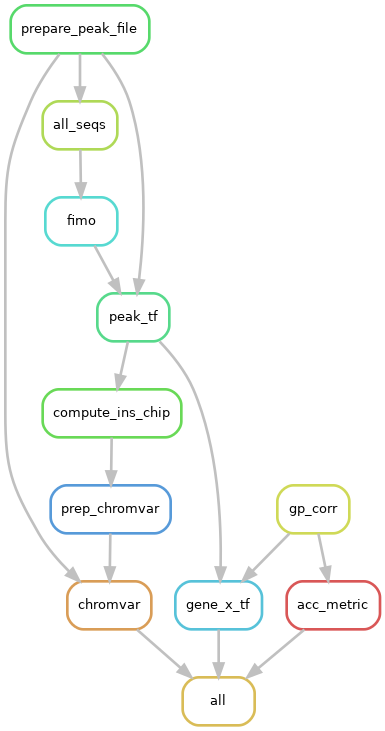
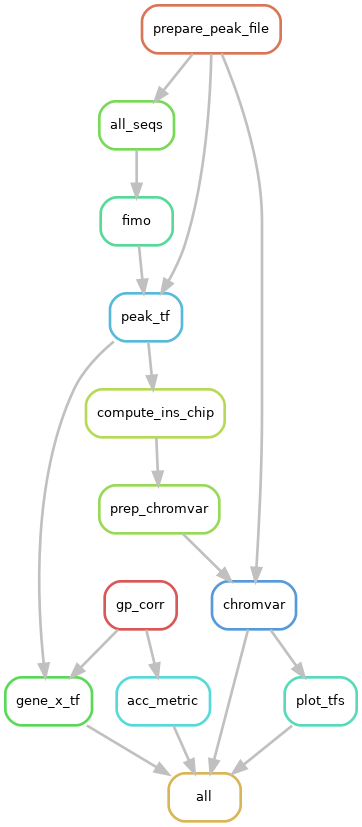
set frameon=False for plotting, update DAG png

diff --git a/workflow/scripts/compute_ins_chip.py b/workflow/scripts/compute_ins_chip.py
@@ -1,6 +1,6 @@
 if __name__ == "__main__":
     import argparse
-    desc = "Computes in silico ChIP matrix"
+    desc = "Computes tf-peak correlations and in silico ChIP matrix"
     
     parser = argparse.ArgumentParser(
         description=desc, formatter_class=argparse.ArgumentDefaultsHelpFormatter
@@ -41,7 +41,7 @@ if __name__ == "__main__":
     
     parser.add_argument(
         "--verbose",
-        help="Whether to print out progress statements",
+        help="Whether to print out info about each TF",
         action="store_true"
     
     )
@@ -81,6 +81,7 @@ def mean1(a):
         b[i] = a[i].mean()
     return b
 
+
 @nb.njit
 def std1(a):
     n = len(a)
@@ -88,6 +89,7 @@ def std1(a):
     for i in range(n):
         b[i] = a[i].std()
     return b
+
 
 @nb.njit
 def c(a, b):
@@ -104,6 +106,7 @@ def c(a, b):
         out[i] =  np.dot((a - mu_a),(b[i] - mu_b[i]))  / k / sig_a / sig_b[i]
 
     return out
+
 
 def compute_corrs(tf_set, rna_mat, atac_mat, fimo_mat, verbose=True):
     corr_mat = pd.DataFrame(0.0, columns=tf_set, index=atac_mat.columns)
@@ -123,16 +126,15 @@ def compute_corrs(tf_set, rna_mat, atac_mat, fimo_mat, verbose=True):
     
     return corr_mat
 
-def compute_ins_mat(tf_set, corr_mat, atac_mat, fimo_mat, verbose=True):
 
+def compute_ins_mat(tf_set, corr_mat, atac_mat, fimo_mat, verbose=True):
     final_out = pd.DataFrame(0.0,index=atac_mat.columns, columns=tf_set)
     for tf in tqdm(tf_set,total=len(tf_set)):
         pos_peaks = corr_mat.index[corr_mat[tf] > 0]
 
         if verbose:
             print(f'{tf}: {len(pos_peaks)} pos corr peaks')
-            print('Computing in silico chip score...')
-            
+    
         max_acc = atac_mat[pos_peaks].max(axis=0)
         
         corr_score = corr_mat.loc[pos_peaks,tf]
@@ -165,7 +167,7 @@ def main(args):
     gene_set = rna_ad.var_names
     peak_x_tf = filter_gene(peak_x_tf, gene_set)
 
-    # grab matricies from anndatas
+    # grab matrices from anndatas
     rna_mat = rna_ad.to_df()
     atac_mat = atac_ad.to_df()
     fimo_mat = peak_x_tf.to_df()
@@ -173,7 +175,9 @@ def main(args):
     all_tfs = fimo_mat.columns
     
     # compute correlation and in silico chip matrix
+    print('computing correlations...')
     corr_mat = compute_corrs(all_tfs,rna_mat, atac_mat, fimo_mat, verbose=args.verbose)
+    print('Computing in silico chip score...')
     insc_mat = compute_ins_mat(all_tfs, corr_mat, atac_mat, fimo_mat, verbose=args.verbose)
     
     ## EXPORT DATA ##
@@ -181,26 +185,21 @@ def main(args):
         os.mkdir(args.outdir)
     
     # correlation matrix
+    print(f'writing tf-peak correlations to {corr_outfile}...')
     corr_outfile = args.outdir +'/tf_peak_corrs.mtx'
-    if args.verbose:
-        print(f'writing tf-peak correlations to {corr_outfile}...')
     scipy.io.mmwrite(corr_outfile, csr_matrix(insc_mat.values), )    
     
     # in silico ChIP matrices
+    print(f'writing in silico ChIP matrix to {ins_outfile}...')
     ins_outfile = args.outdir +'/ins_chip.mtx'
-    if args.verbose:
-        print(f'writing in silico ChIP matrix to {ins_outfile}...')
     scipy.io.mmwrite(ins_outfile, csr_matrix(insc_mat.values), )
     
-    if args.verbose:
-        print(f'saving metadata...')
     # TF and peak list
+    print(f'saving metadata...')
     pd.Series(all_tfs).to_csv(args.outdir +'/tf_names.csv', index=False, header=['tf_name'])
     pd.Series(atac_mat.columns).to_csv(args.outdir +'/peak_names.csv', index=False, header=['peak_name'])
-    
-    
-    if args.verbose:
-        print('Completed!')
+       
+    print('Completed!')
     
     
 if __name__ == "__main__":

diff --git a/workflow/scripts/plot_tfs.py b/workflow/scripts/plot_tfs.py
@@ -96,10 +96,12 @@ def main(args):
             if len(not_valid) != 0:
                 print(f'Following TFs not in chromVAR output: {not_valid}')            
             
-            sc.pl.embedding(cv_ad, basis=args.embedding, color=tfs_plot, layer='z-scored', vmin=(-1 * args.vmax), vmax=args.vmax, cmap='RdBu_r', show=False)
+            sc.pl.embedding(cv_ad, basis=args.embedding, color=tfs_plot, layer='z-scored', vmin=(-1 * args.vmax), vmax=args.vmax, 
+                            cmap='RdBu_r', show=False, frameon=False)
             plt.savefig(f'{args.outdir}/tfs_zs.png', bbox_inches='tight', dpi=300)
 
-            sc.pl.embedding(cv_ad, basis=args.embedding, color=tfs_plot, vmin=(-1 * args.vmax), vmax=args.vmax, cmap='RdBu_r', show=False)
+            sc.pl.embedding(cv_ad, basis=args.embedding, color=tfs_plot, vmin=(-1 * args.vmax), vmax=args.vmax, 
+                            cmap='RdBu_r', show=False, frameon=False)
             plt.savefig(f'{args.outdir}/tfs.png', bbox_inches='tight', dpi=300)        
         
         else:
@@ -110,5 +112,6 @@ def main(args):
         sc.pl.embedding(cv_ad, basis=args.embedding, color=annos_plot, frameon=False, show=False) 
         plt.savefig(f'{args.outdir}/annotated.png', bbox_inches='tight', dpi=300)
                                  
+
 if __name__ == "__main__":
     main(args)

diff --git a/workflow/scripts/prep_chromVAR_files.py b/workflow/scripts/prep_chromVAR_files.py
@@ -1,6 +1,6 @@
 if __name__ == "__main__":
     import argparse
-    desc = "Filters and binarizes chip matrix for chromvar"
+    desc = "Filters and binarizes chip matrix and saves other files for chromvar"
     
     parser = argparse.ArgumentParser(
         description=desc, formatter_class=argparse.ArgumentDefaultsHelpFormatter
@@ -54,7 +54,8 @@ import numpy as np
 import scipy.io
 from scipy.sparse import csr_matrix, issparse  
 import scanpy as sc
-    
+
+
 def filt_and_binarize(ins_chip_mat, min_chip_score, min_peak_hits):
     print(f'Filtering for TFs with insilico chip score > {min_chip_score} in at least {min_peak_hits} peaks')
     ins_chip_mat[ins_chip_mat <= min_chip_score] = 0.0
@@ -89,10 +90,7 @@ def main(args):
     if ~issparse(sc_atac_ad.X):
         sc_atac_ad.X = csr_matrix(sc_atac_ad.X)
     
-    scipy.io.mmwrite(args.outdir +'/sc_atac_counts.mtx', sc_atac_ad.X)
-    
-    if 'nFrags' not in sc_atac_ad.obs.columns:
-        raise KeyError("'nFrags' not in scATAC .obs")    
+    scipy.io.mmwrite(args.outdir +'/sc_atac_counts.mtx', sc_atac_ad.X)  
     sc_atac_ad.obs['nFrags'].to_csv(args.outdir + '/sc_nfrags.csv', index=True, header=['nFrags'])                             
                                  
     
